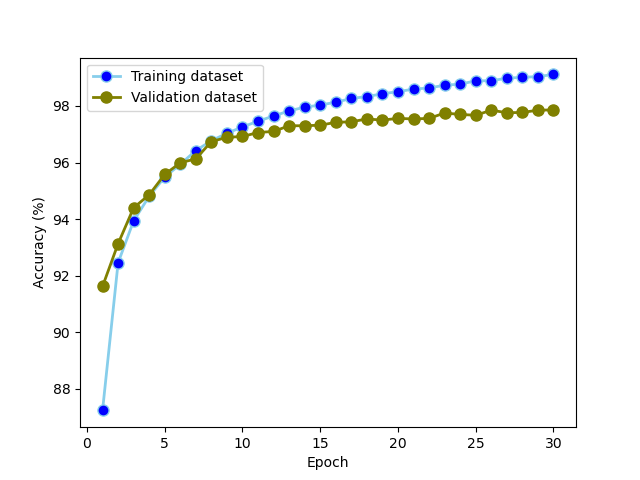
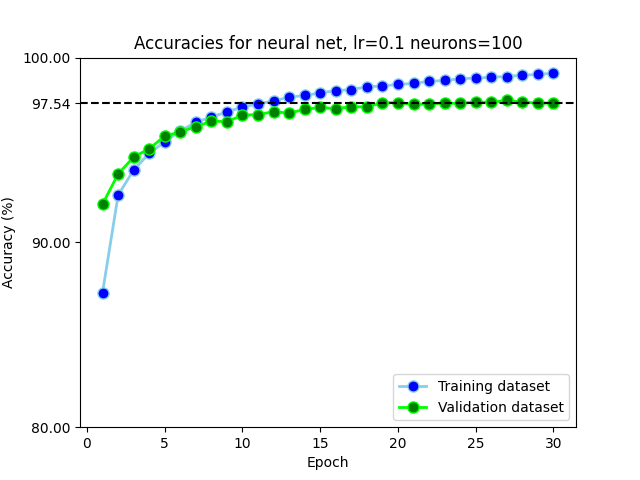
proper plots and code refreshments

diff --git a/assignment7/src/q2a.py b/assignment7/src/q2a.py
@@ -6,35 +6,58 @@ from keras.layers import Dense, Dropout, Flatten
 from keras.layers import Conv2D, MaxPooling2D
 from keras import backend as K
 import matplotlib.pyplot as plt
+import numpy as np
 
 from general import generateData, train_model
 
+# Set values of learning rates and neurons in layer
+learning_rate = 0.1
+neurons_in_layer = 100
+
 num_classes = 10
 epochs = 30
-#Generate the data 
-(x_train, y_train), (x_test, y_test) = generateData(num_classes)
+# Generate the data
+(x_train, y_train, x_test, y_test, _) = generateData(num_classes)
 
-#Train the model
+title = "Accuracies for neural net, lr=" + \
+    str(learning_rate) + " neurons=" + str(neurons_in_layer)
+print(title)
+
+# Train the model
 model, fit_info = train_model(
-    x_train, 
-    y_train, 
-    x_test, 
+    x_train,
+    y_train,
+    x_test,
     y_test,
-    [Flatten(), 
-     Dense(100, activation='relu'), 
-     Dense(10, activation='softmax')]
-    )
+    [Flatten(),
+     Dense(100, activation='relu'),
+     Dense(10, activation='softmax')], lr=learning_rate, epochs=epochs
+)
 
 score = model.evaluate(x_test, y_test, verbose=0)
-print("Test loss: {}, Test accuracy {}".format(score[0], score[1]))    
+print("Test loss: {}, Test accuracy {}".format(score[0], score[1]))
 
-#Plot a line chart
-plt.plot( list(range(1,epochs+1)), [a*100 for a in fit_info.history['accuracy']], marker='o', markerfacecolor='blue', markersize=8, color='skyblue', linewidth=2)
-plt.plot( list(range(1,epochs+1)), [a*100 for a in fit_info.history['val_accuracy']], marker='o', color='olive',markersize=8, linewidth=2)
+# Plot a line chart
+plt.plot(list(range(1, epochs+1)), [a*100 for a in fit_info.history['accuracy']],
+         marker='o', markerfacecolor='blue', markersize=8, color='skyblue', linewidth=2)
+plt.plot(list(range(1, epochs+1)), [a*100 for a in fit_info.history['val_accuracy']],
+         marker='o', color='lime', markerfacecolor='green', markersize=8, linewidth=2)
 
 
-plt.legend(['Training dataset', 'Validation dataset'])
+plt.title(title)
+
+last_val = fit_info.history['val_accuracy'][-1] * 100
+min_val = min(fit_info.history["accuracy"]) * 100
+
+range_start = 10 * (min_val//10)  # makes 77 be 70
+
+yticks = np.arange(range_start, 101, 10)
+yticks = np.sort(np.append(yticks, last_val))
+
+plt.axhline(last_val, ls="--", c="k")
+plt.yticks(yticks)
+
+plt.legend(['Training dataset', 'Validation dataset'], loc="lower right")
 plt.xlabel("Epoch")
 plt.ylabel("Accuracy (%)")
 plt.show()
-  

diff --git a/assignment7/src/plot.py b/assignment7/src/plot.py
@@ -16,12 +16,12 @@ import pandas as pd
 from matplotlib import cm
 
 num_classes = 10
-epochs = 10
-(x_train, y_train), (x_test, y_test) = generateData(num_classes)
+epochs = 5
+(x_train, y_train, x_test, y_test, input_shape) = generateData(num_classes)
 
-neuronsToTry = [10, 150, 500]  # [10, 25, 50, 100, 150, 250, 500, 750, 1000]
+neuronsToTry = [10, 25, 50, 100, 750]  # [10, 25, 50, 100, 150, 250, 500, 750, 1000]
 #
-learningRatesToTry = [0.001, 0.01, 0.1]  # [0.001, 0.005, 0.01, 0.05, 0.1]
+learningRatesToTry = [0.001]  # [0.001, 0.005, 0.01, 0.05, 0.1]
 colors = ["blue","red","green","orange","purple","cyan","pink","brown"]
 
 modelPerformances = []
@@ -62,15 +62,21 @@ df["accuracy"] = df["accuracy"]*100
 
 ax = plt.gca()
 
+x = [neuron for neuron in range(len(neuronsToTry))]
+
 for idx,lr in enumerate(learningRatesToTry):
+    ## filter out learning rates for plot
     lr_df = df[df["learning rate"]==lr]
-    lr_df.plot.line(x="neurons", y="accuracy", color=colors[idx], legend=True, marker='o', linewidth=2, ax=ax)
+    ## used for equal spacing of x axis
+    lr_df["x"] = x
+    ## plot line
+    lr_df.plot.line(x="x", y="accuracy", color=colors[idx], legend=True, marker='o', linewidth=2, ax=ax)
 
 ax.legend(learningRatesToTry)
 
 plt.title("Accuracies for different learning rates \n when the amount of neurons change ")
 plt.ylabel("Accuracy (%)")
 plt.xlabel("Number of neurons in layer")
-plt.xticks(neuronsToTry)
+plt.xticks(x, neuronsToTry)
 
 plt.show()

diff --git a/assignment7/report.md b/assignment7/report.md
@@ -86,7 +86,7 @@ fit_info = model.fit(...)
 # Plot test-accuracy
 plt.plot( list(range(1,epochs+1)), [a*100 for a in fit_info.history['accuracy']], marker='o', markerfacecolor='blue', markersize=8, color='skyblue', linewidth=2)
 # Plot validation-accuracy.
-plt.plot( list(range(1,epochs+1)), [a*100 for a in fit_info.history['val_accuracy']], marker='o', color='olive',markersize=8, linewidth=2)
+plt.plot( list(range(1,epochs+1)), [a*100 for a in fit_info.history['val_accuracy']], marker='o', color='lime', markerfacecolor='green', markersize=8, linewidth=2)
 ```
 
 ![img](fig/Q1b.png)
@@ -101,11 +101,16 @@ We get that the accuracy on the test dataset is approximately `97.46 %` for this
 Similar as before, the learning rate is set to 0.1, and the layers of the model is:
 
 ```python
-[
-    Flatten(),
-    Dense(100, activation='relu'),
-    Dense(10, activation='softmax')
-]
+  
+train_model(
+    #...
+    [
+     Flatten(),
+     Dense(100, activation='relu'),
+     Dense(10, activation='softmax')
+    ],
+    lr=0.1
+)
 ```
 
 ![img](fig/q2a.png)
@@ -161,9 +166,15 @@ for idx,lr in enumerate(learningRatesToTry):
 
 It appears that having more than 250 neurons seems redudant and that a learning rate of 0.1 is the best for all amounts of neurons.
 
-Overall, the model that performs the best is the one with `1000` neurons and a learning rate of `0.1`, with an accuracy of `97.34%`.
+Overall, the model that performs the best is the one with `1000` neurons and a learning rate of `0.1`, with an accuracy of `97.5%` on the validation set.
 
-We use the same code used in q2 but with changed neurons and learning rate, plotted below.
+To show the optimal model we use the same code used in question 2 but with changed neurons and learning rate, shown below. 
+
+```python
+neurons_in_layer = 1000
+learning_rate = 0.1
+epochs = 30
+```
 
 ![img](fig/q2c2.png)
 
@@ -178,7 +189,7 @@ We add the gaussian noise layer as the first hidden layer, see code snippet belo
     Flatten(),
     GaussianNoise(<standardDeviation>),
     Dense(100, activation='relu'),
-    Dense(num_classes, activation='softmax')
+    Dense(num_classes, activation='softmax'),
 ]
 ```
 
